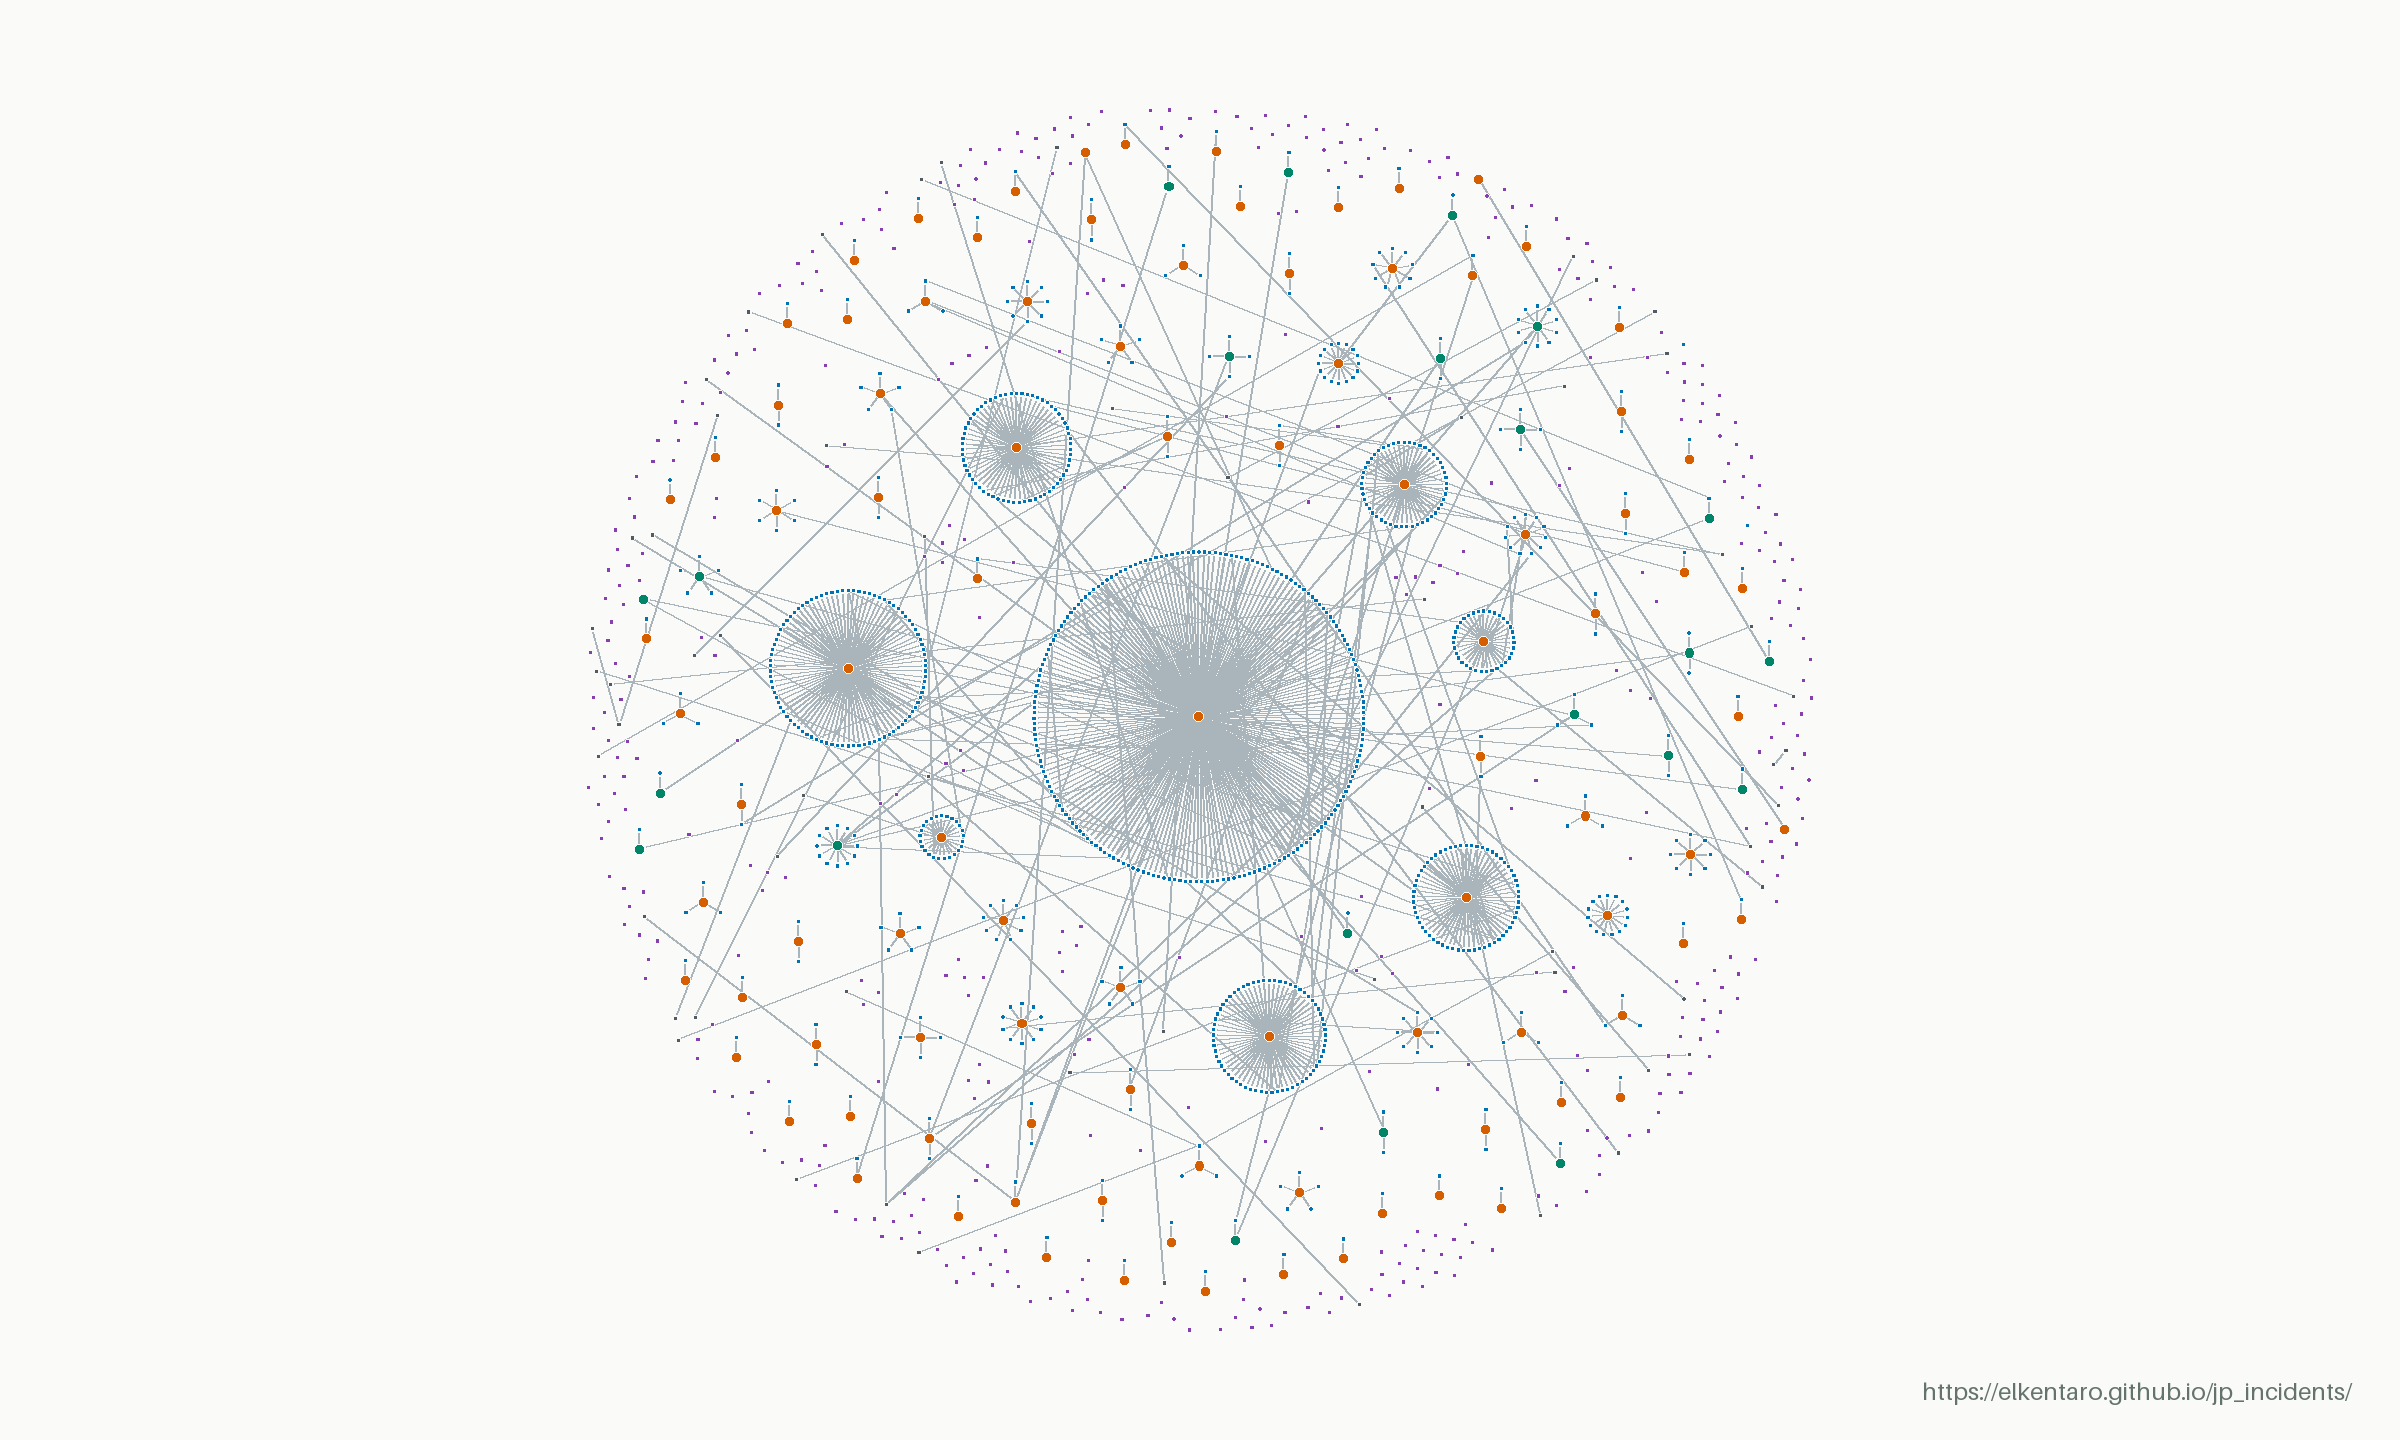
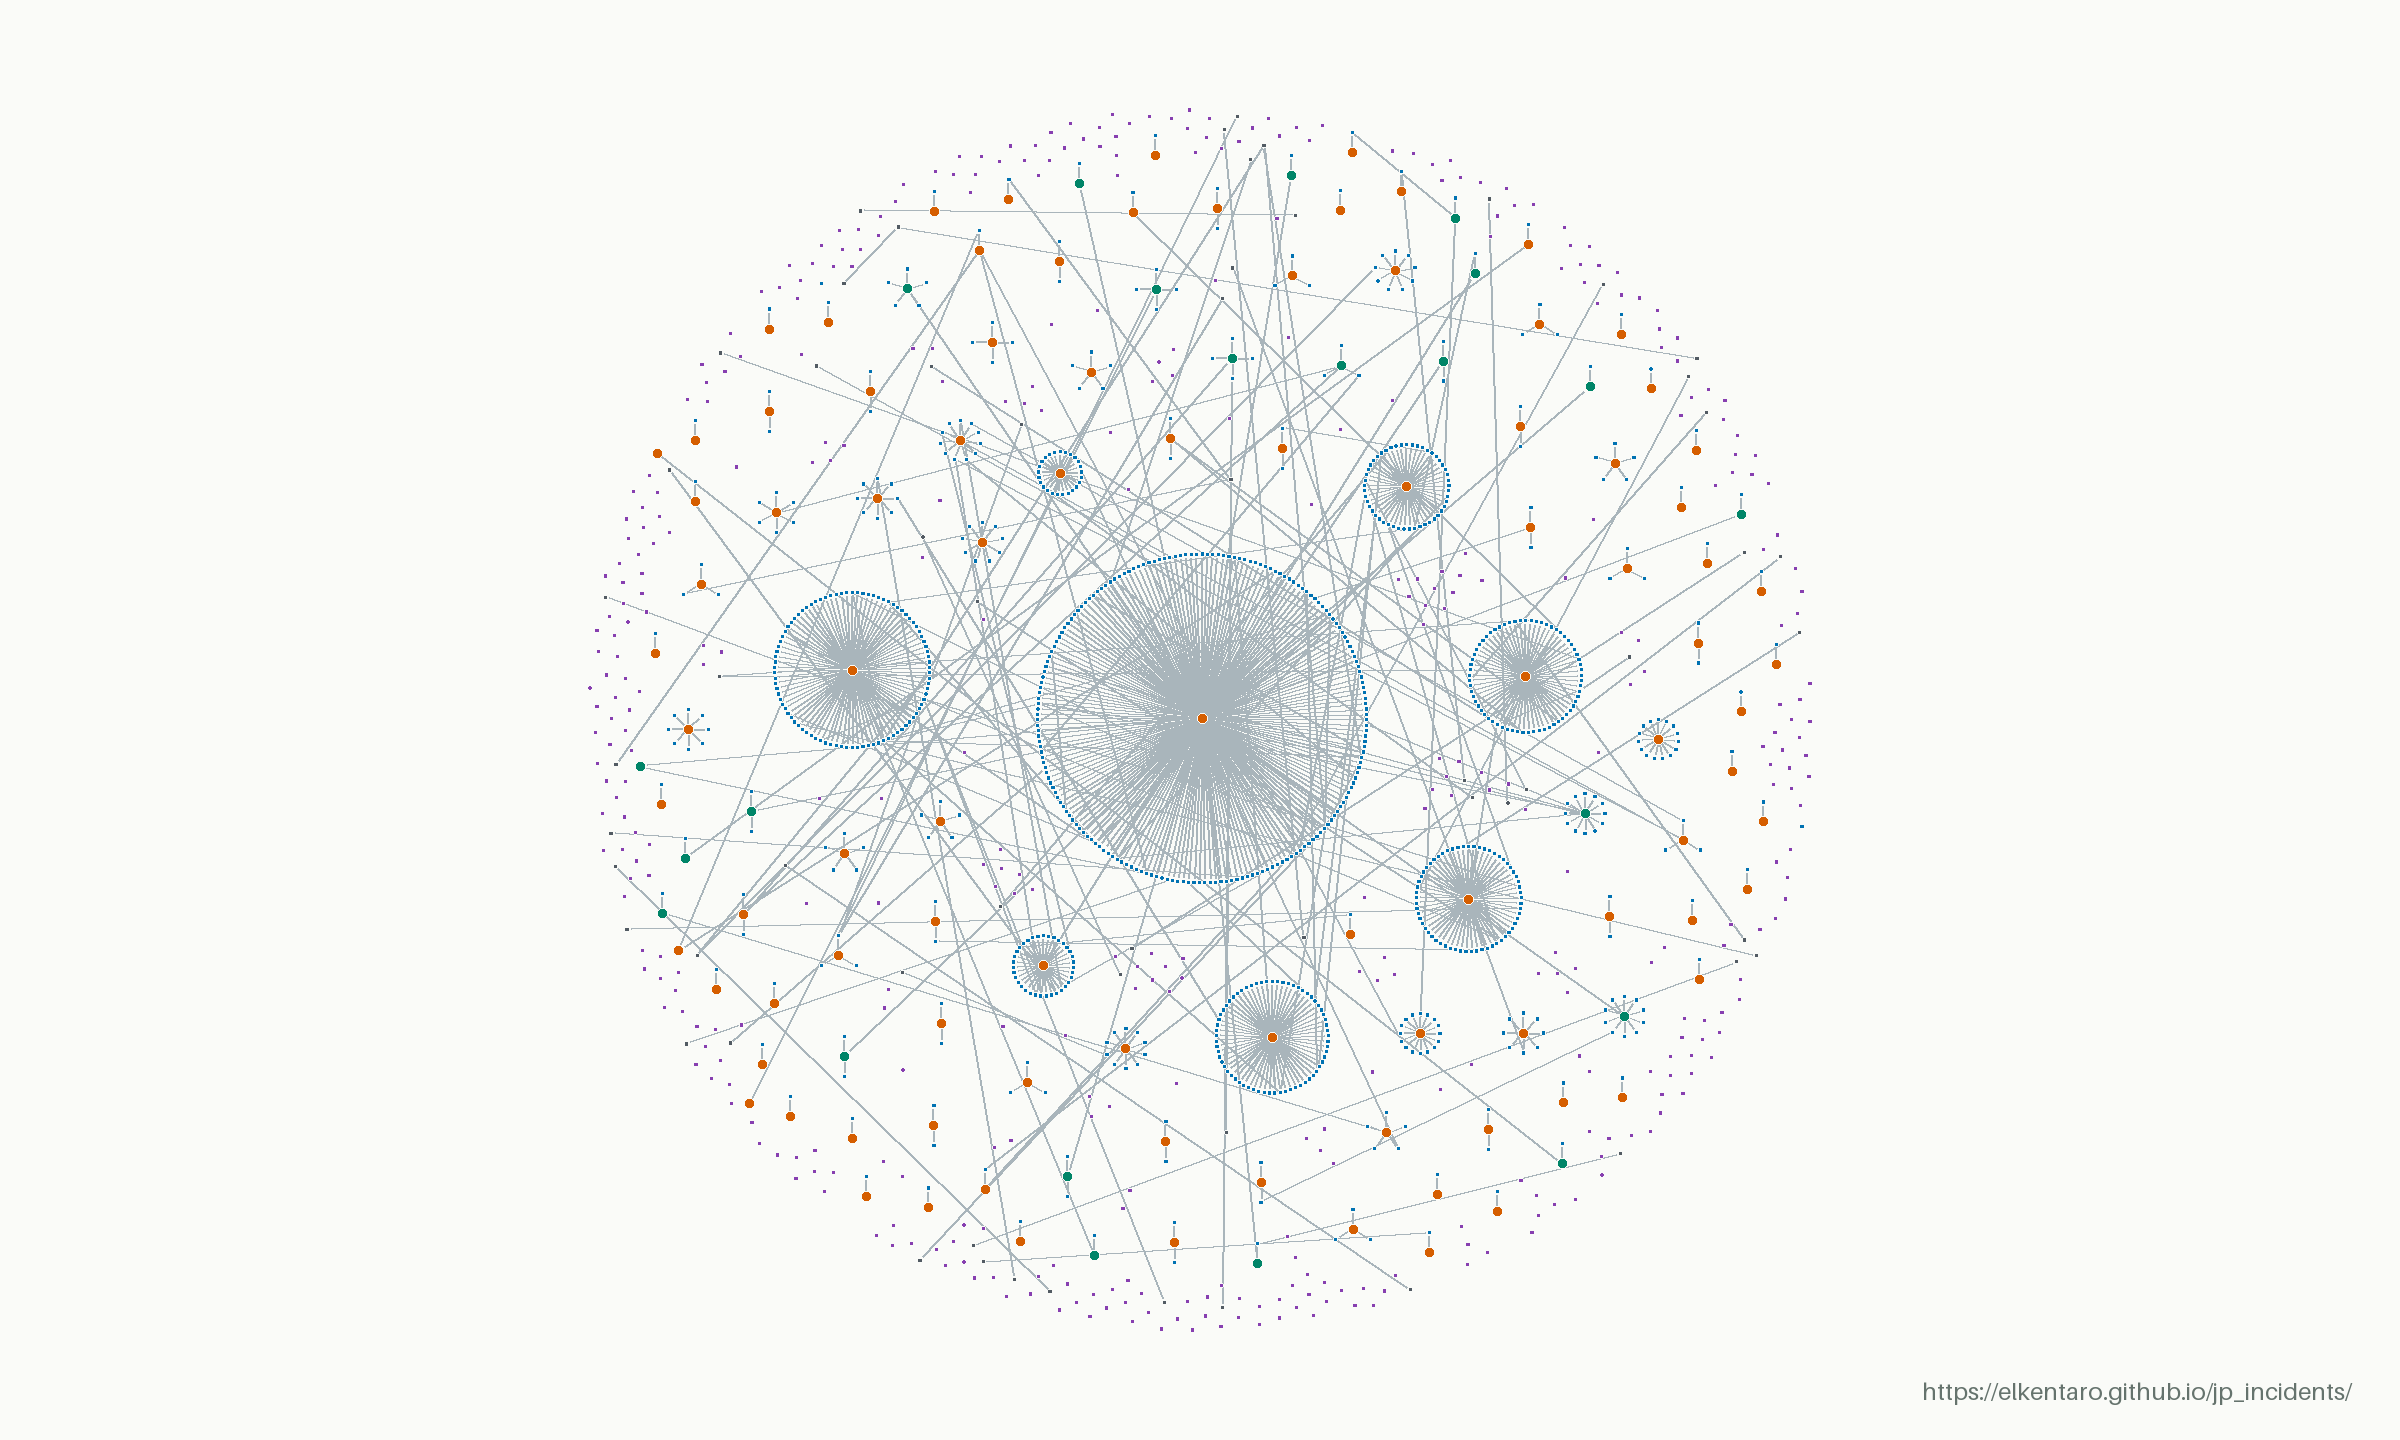
Update incident data (2026-11-19 07:18 UTC)

Changed region(s): [[0.25, 0.0938, 0.75, 0.875], [0.5625, 0.7812, 0.5938, 0.8125], [0.3438, 0.1562, 0.375, 0.1875]]

diff --git a/linkage.html b/linkage.html
@@ -32,17 +32,17 @@
     </section>
     <section class="direct-summary" aria-labelledby="direct-title">
       <dl class="direct-stats">
-        <div class="direct-total"><dt id="direct-title" data-copy="direct">Direct incidents</dt><dd id="direct-count">573</dd></div>
+        <div class="direct-total"><dt id="direct-title" data-copy="direct">Direct incidents</dt><dd id="direct-count">574</dd></div>
         <div><dt data-copy="directUpstream">Upstream incidents</dt><dd id="upstream-count">96</dd></div>
-        <div><dt data-copy="directStandalone">Standalone incidents</dt><dd id="standalone-count">477</dd></div>
+        <div><dt data-copy="directStandalone">Standalone incidents</dt><dd id="standalone-count">478</dd></div>
       </dl>
-      <p class="direct-excluded"><strong id="downstream-count">892</strong> <span data-copy="directExcluded">downstream records excluded, including incidents with both roles.</span></p>
+      <p class="direct-excluded"><strong id="downstream-count">894</strong> <span data-copy="directExcluded">downstream records excluded, including incidents with both roles.</span></p>
       <p class="direct-definition" data-copy="directDefinition">Direct incidents = upstream + standalone, based on recorded causal links. Standalone incidents have no upstream or downstream causal links, but may have other links, such as separate events at the same organization.</p>
     </section>
     <dl class="map-stats">
-      <div><dt data-copy="total">Incidents in snapshot</dt><dd>1465</dd></div>
-      <div><dt data-copy="linked">With recorded connections</dt><dd>1045</dd></div>
-      <div><dt data-copy="links">Recorded connections</dt><dd>1012</dd></div>
+      <div><dt data-copy="total">Incidents in snapshot</dt><dd>1468</dd></div>
+      <div><dt data-copy="linked">With recorded connections</dt><dd>1047</dd></div>
+      <div><dt data-copy="links">Recorded connections</dt><dd>1014</dd></div>
       <div><dt data-copy="networks">Connected networks</dt><dd>79</dd></div>
     </dl>
     <figure class="map-figure">
@@ -50,13 +50,13 @@
         <img src="data/linkage-map.png" width="2400" height="1440" alt="Anonymized incident map. Orange upstream hubs connect to blue downstream incidents; purple unlinked incidents appear throughout the same map without connecting lines." data-copy-alt="alt">
       </div>
       <figcaption>
-        <div class="map-caption-meta"><span><span data-copy="updated">Last updated</span>: <time datetime="2026-11-19T06:16:44.951240+00:00">2026-11-19 06:16 UTC</time></span><a href="data/linkage-map.png" target="_blank" rel="noopener" data-copy="open">Open full-resolution image ↗</a></div>
+        <div class="map-caption-meta"><span><span data-copy="updated">Last updated</span>: <time datetime="2026-11-19T07:17:28.362579+00:00">2026-11-19 07:17 UTC</time></span><a href="data/linkage-map.png" target="_blank" rel="noopener" data-copy="open">Open full-resolution image ↗</a></div>
         <div class="map-key-section">
           <strong id="map-key-title" data-copy="key">Key</strong>
           <ul class="map-key" aria-labelledby="map-key-title">
             <li><span class="key-dot upstream" aria-hidden="true"></span><span data-copy="keyUpstream">Upstream</span></li>
             <li><span class="key-dot downstream" aria-hidden="true"></span><span data-copy="keyDownstream">Downstream</span></li>
-            <li><span class="key-dot standalone" aria-hidden="true"></span><span data-copy="keyStandalone">Unlinked</span><span>(420)</span></li>
+            <li><span class="key-dot standalone" aria-hidden="true"></span><span data-copy="keyStandalone">Unlinked</span><span>(421)</span></li>
             <li><span class="key-dot both" aria-hidden="true"></span><span data-copy="keyBoth">Both roles</span></li>
             <li><span class="key-dot related" aria-hidden="true"></span><span data-copy="keyRelated">Other related</span></li>
             <li><span class="key-line" aria-hidden="true"></span><span data-copy="keyRelationship">Recorded relationship</span></li>
@@ -69,7 +69,7 @@
       <section><h2 data-copy="readingTitle">Reading the map</h2><p data-copy="reading">Orange marks upstream incidents, blue downstream incidents, and purple unlinked incidents with no recorded connection. Teal marks incidents with both upstream and downstream roles; charcoal marks other related incidents. A missing connection does not establish that two incidents are unrelated.</p></section>
       <section><h2 data-copy="snapshotTitle">About this snapshot</h2><p data-copy="snapshot">The static image is refreshed when published incidents or relationships change, and at least every 24 hours during normal publication. Larger upstream clusters have extra spacing to keep their victims apart. Names, incident IDs, source links and incident dates are omitted; the connection pattern is retained. It is an overview of recorded relationships, not a complete map of cyber incidents in Japan.</p></section>
     </div>
-    <p class="map-source"><span data-copy="sourceUpdated">Source data updated</span>: <time datetime="2026-11-19T06:16:44+00:00">2026-11-19T06:16:44+00:00</time> · <a href="./" data-copy="browse">Browse the incident index</a></p>
+    <p class="map-source"><span data-copy="sourceUpdated">Source data updated</span>: <time datetime="2026-11-19T07:17:28+00:00">2026-11-19T07:17:28+00:00</time> · <a href="./" data-copy="browse">Browse the incident index</a></p>
   </main>
   <footer><div class="shell footer-inner"><p data-copy="footer">Public reports. Recorded relationships. An anonymized overview.</p><a href="./" data-copy="back">Back to incidents</a></div></footer>
   <script src="linkage.js?v=20261107-spacing" defer></script>
